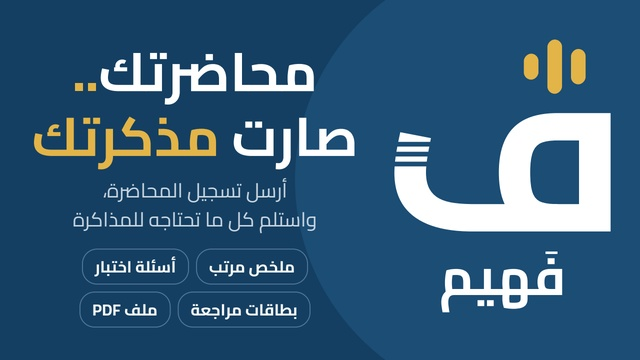
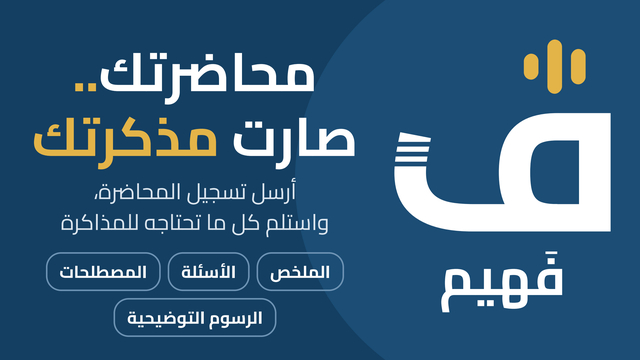
Sharper bot description picture listing the four files
Rendered at four times the size and scaled down, and saved as a full-quality JPEG without colour
subsampling, so the small text survives Telegram's compression.

Claude-Session: https://claude.ai/code/session_015VcjCjxnsofWDNeZ4HzkTW

diff --git a/design/faheem/make_description.py b/design/faheem/make_description.py
@@ -11,7 +11,7 @@ W, H = 1280, 720
 mark = logo.svg(cuts=CUTS, bg=None, width_ratio=0.92).replace('width="512" height="512"', 'width="470" height="470"')
 wave = "".join(f'<span style="height:{h}px"></span>' for h in
                (14, 26, 44, 30, 60, 38, 22, 48, 70, 40, 24, 54, 34, 18, 42, 28, 16))
-features = ["ملخص مرتب", "أسئلة اختبار", "بطاقات مراجعة", "ملف PDF"]
+features = ["الملخص", "الأسئلة", "المصطلحات", "الرسوم التوضيحية"]
 
 html = f"""<!doctype html><html dir="rtl" lang="ar"><head><meta charset="utf-8"><style>
 @font-face {{ font-family: Cairo; src: url("file://{FONTS}/Cairo-400.ttf"); font-weight: 400; }}
@@ -28,10 +28,10 @@ body {{ width: {W}px; height: {H}px; background: {logo.NAVY}; font-family: Cairo
 .copy {{ position: absolute; right: 540px; width: 700px; top: 78px; text-align: center; }}
 h1 {{ margin: 0; font-size: 108px; line-height: 1.2; font-weight: 700; }}
 h1 b {{ color: {logo.GOLD}; }}
-p {{ margin: 14px 0 0; font-size: 40px; line-height: 1.45; color: #c9d6e2; }}
+p {{ margin: 14px 0 0; font-size: 44px; line-height: 1.4; color: #dbe5ee; }}
 .chips {{ margin: 30px auto 0; width: 640px; text-align: center; position: relative; right: 60px; }}
 .chips span {{ display: inline-block; margin: 0 7px 14px; padding: 4px 24px; border-radius: 30px;
-               border: 2px solid #4f7597; font-size: 32px; font-weight: 700; color: #fff; }}
+               border: 3px solid #6d93b4; font-size: 34px; font-weight: 700; color: #fff; }}
 .wave {{ position: absolute; left: 80px; bottom: 70px; height: 70px; display: flex; align-items: center;
          direction: ltr; }}
 .wave span {{ display: inline-block; width: 10px; margin-right: 9px; border-radius: 5px; background: {logo.GOLD};
@@ -48,9 +48,14 @@ p {{ margin: 14px 0 0; font-size: 40px; line-height: 1.45; color: #c9d6e2; }}
 </body></html>"""
 
 if __name__ == "__main__":
+    from PIL import Image
+
     pdf = "description/description.pdf"
     HTML(string=html).write_pdf(pdf)
     page = pypdfium2.PdfDocument(pdf)[0]
+    # Render at four times the size and scale down: small text stays sharp and smooth at 640 x 360.
+    big = page.render(scale=2560 / page.get_width()).to_pil().convert("RGB")
     for name, width in (("faheem-description.png", 1280), ("faheem-description-640.png", 640)):
-        img = page.render(scale=width / page.get_width()).to_pil()
-        img.save(f"description/{name}")
+        big.resize((width, width * 9 // 16), Image.LANCZOS).save(f"description/{name}", optimize=True)
+    # Telegram stores the photo as JPEG: send it one at full quality without colour subsampling.
+    big.resize((640, 360), Image.LANCZOS).save("description/faheem-description-640.jpg", quality=100, subsampling=0)
